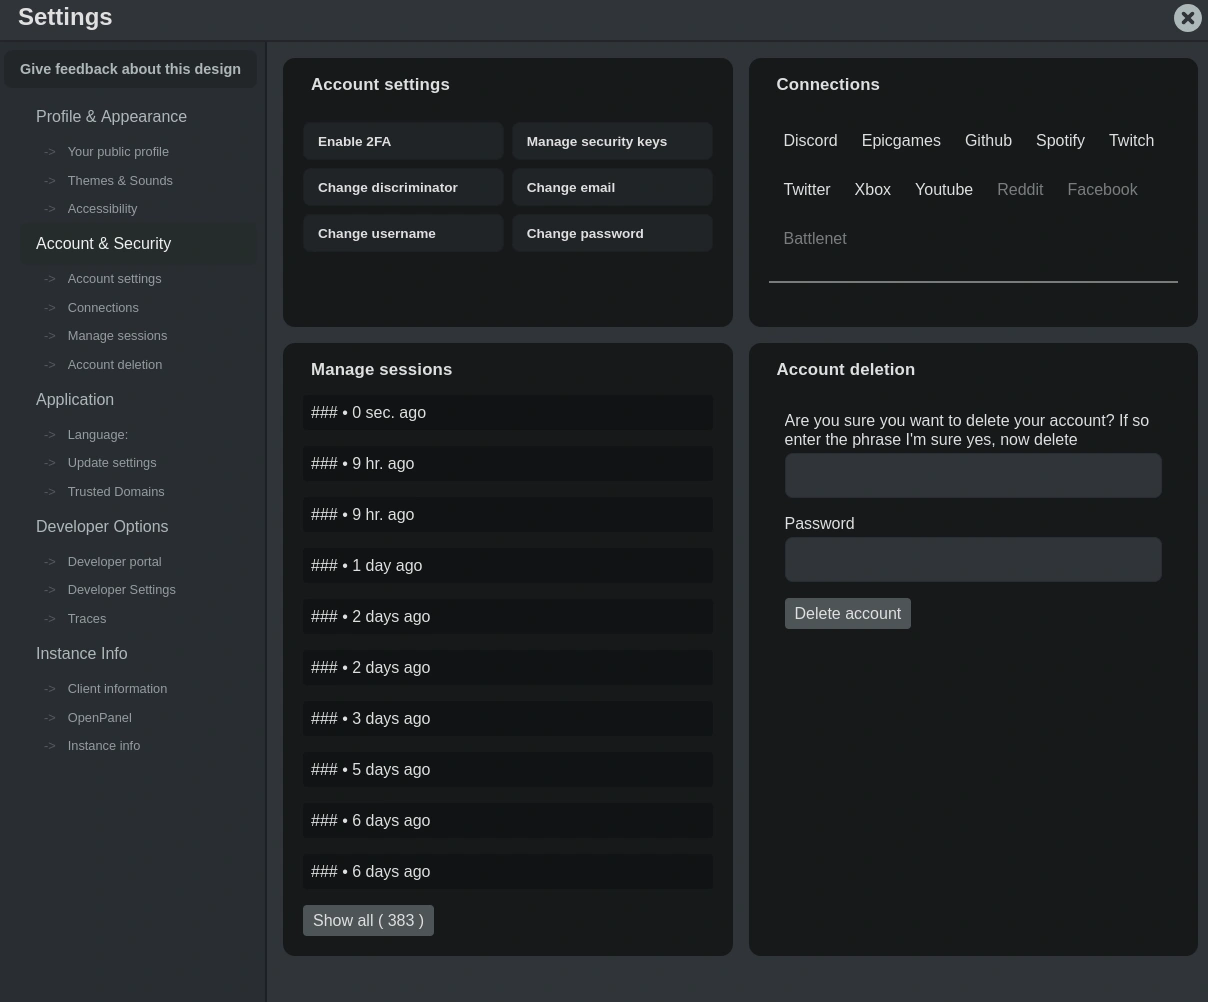
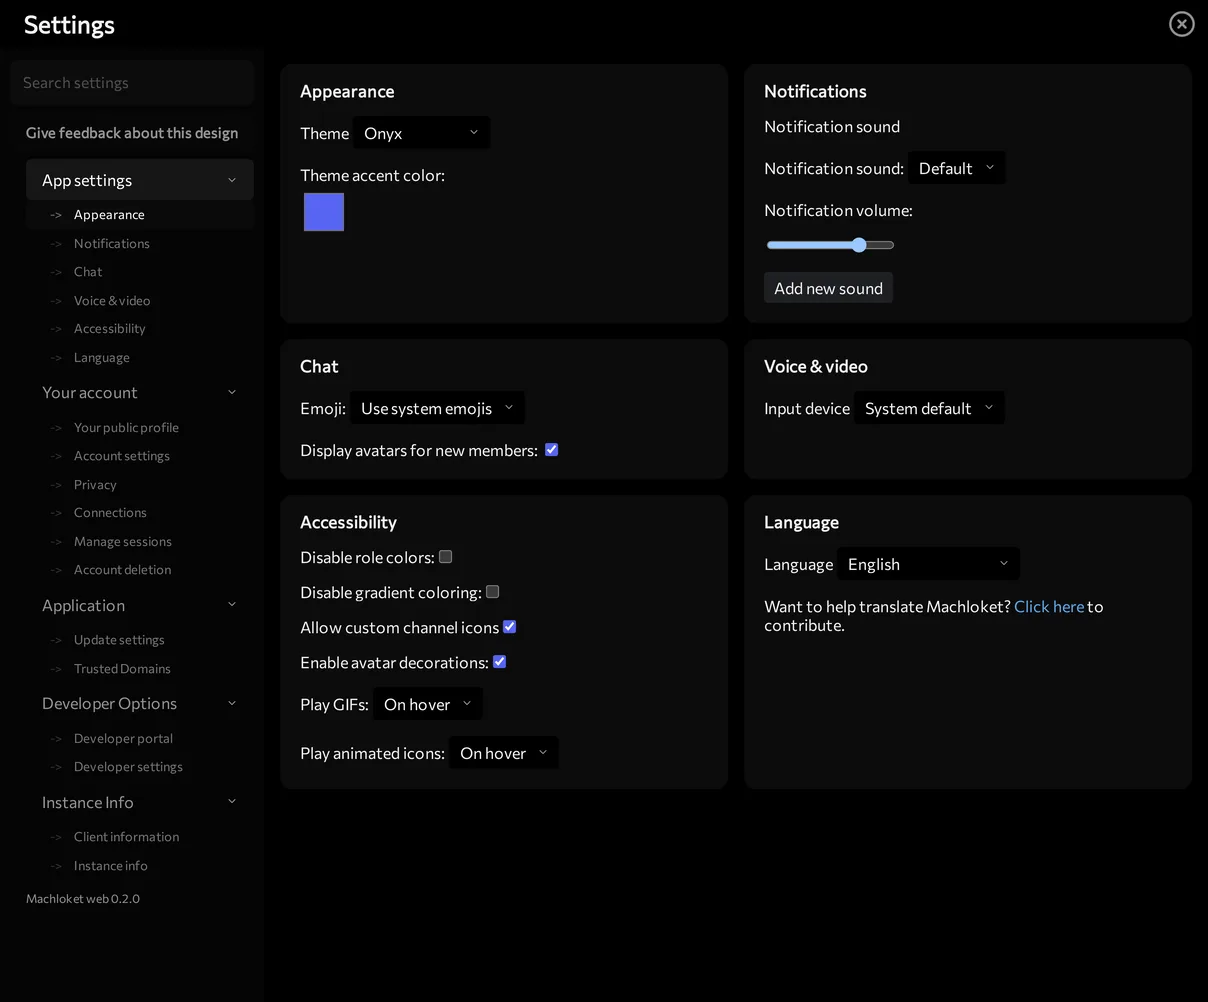
feat(licence): Client information offers this build's source and credits Fermo (TASK-19)
AGPL-3.0 section 13: the app links the repository at the commit it was built
from (MACHLOKET_SOURCE_URL for a deployment's own repository; a bad setting
fails the build). Clears the fork-era custom badges, swaps the landing page's
Fermo settings shot for Machloket's own, and makes the README describe the
real review gates (TASK-129).

diff --git a/src/webpage/utils/sourceOffer.ts b/src/webpage/utils/sourceOffer.ts
@@ -1,0 +1,43 @@
+/** Where this client's source is published. AGPL-3.0 section 13 has the running app offer its
+ * users the source of the version they use: Client information links it (TASK-19). */
+export const DEFAULT_SOURCE_REPO = "https://github.com/lbds137/machloket-client";
+
+/**
+ * The "source for this build" link: the repository at the revision the build was made from.
+ * `repo` is the MACHLOKET_SOURCE_URL build setting, for a deployment that publishes its own
+ * changes; unset means this repository. A build with no known revision ("dev", vite.config.js's
+ * getBuildVersion outside a git checkout) links the repository itself. Read at build time
+ * (vite.config.js), so a bad setting fails the build instead of shipping a broken offer.
+ */
+export function sourceUrl(repo: string | undefined, revision: string): string {
+	const base = (repo?.trim() || DEFAULT_SOURCE_REPO).replace(/\/+$/, "");
+	// A link people also copy out of the text: no whitespace, brackets or parentheses that would
+	// end it early when it is pasted or auto-linked elsewhere.
+	if (/[\s()[\]<>]/.test(base) || !URL.canParse(base)) {
+		throw new Error(`MACHLOKET_SOURCE_URL must be a web address, got: ${base}`);
+	}
+	const {protocol} = new URL(base);
+	if (protocol !== "https:" && protocol !== "http:") {
+		throw new Error(`MACHLOKET_SOURCE_URL must be an http(s) address, got: ${base}`);
+	}
+	const rev = revision.trim();
+	if (!rev || rev === "dev") return base;
+	return `${base}/tree/${encodeURIComponent(rev)}`;
+}
+
+/** The credit line, with the source link as a plain anchor: the app's Markdown gives a link to
+ * an untrusted host no href, and this offer must always open. `line` is the translated text,
+ * given what to put where the link goes. */
+export function creditLine(line: (link: string) => string, url: string): HTMLParagraphElement {
+	const marker = String.fromCharCode(1);
+	const [before, after = ""] = line(marker).split(marker);
+	const a = document.createElement("a");
+	a.href = url;
+	a.textContent = url;
+	a.target = "_blank";
+	a.rel = "noreferrer";
+	const p = document.createElement("p");
+	p.className = "sourceOffer";
+	p.append(before, a, after);
+	return p;
+}

diff --git a/src/webpage/utils/sourceOffer.test.ts b/src/webpage/utils/sourceOffer.test.ts
@@ -1,0 +1,39 @@
+import {describe, expect, it} from "vitest";
+import {DEFAULT_SOURCE_REPO, sourceUrl} from "./sourceOffer";
+
+const SHA = "0123456789abcdef0123456789abcdef01234567";
+
+describe("the source link for this build", () => {
+	it("is this repository at the build's commit when nothing is configured", () => {
+		expect(sourceUrl(undefined, SHA)).toBe(`${DEFAULT_SOURCE_REPO}/tree/${SHA}`);
+		expect(sourceUrl("  ", SHA)).toBe(`${DEFAULT_SOURCE_REPO}/tree/${SHA}`);
+	});
+
+	it("uses a deployment's own repository, trailing slash or not", () => {
+		expect(sourceUrl("https://git.example.test/me/fork/", "v1.2.0")).toBe(
+			"https://git.example.test/me/fork/tree/v1.2.0",
+		);
+	});
+
+	it("links the repository itself when the build has no revision", () => {
+		expect(sourceUrl(undefined, "dev")).toBe(DEFAULT_SOURCE_REPO);
+		expect(sourceUrl("https://git.example.test/me/fork", "")).toBe(
+			"https://git.example.test/me/fork",
+		);
+	});
+
+	it("keeps a revision with a slash inside one path segment", () => {
+		expect(sourceUrl(undefined, "release/1")).toBe(`${DEFAULT_SOURCE_REPO}/tree/release%2F1`);
+	});
+
+	// The link is rendered as a Markdown link: a setting that isn't a web URL, or that would
+	// break out of the link syntax, fails the build instead of shipping a broken offer.
+	it.each([
+		["not a URL", "github.com/me/fork"],
+		["not a web link", "javascript:alert(1)"],
+		["a bracket or parenthesis", "https://git.example.test/me/(fork)"],
+		["whitespace", "https://git.example.test/me/my fork"],
+	])("refuses a setting that is %s", (_why, repo) => {
+		expect(() => sourceUrl(repo, SHA)).toThrow(/MACHLOKET_SOURCE_URL/);
+	});
+});

diff --git a/e2e/source-offer.spec.ts b/e2e/source-offer.spec.ts
@@ -1,0 +1,32 @@
+import {expect} from "@playwright/test";
+import {loginAndOpenChannel, test} from "./fixtures";
+import {DEFAULT_SOURCE_REPO} from "../src/webpage/utils/sourceOffer";
+
+test.use({viewport: {width: 1280, height: 800}});
+
+// AGPL-3.0 section 13: the running app offers its users the source of the version they use.
+test("Client information credits Fermo and links the source of this build", async ({
+	page,
+	mockInstance,
+}) => {
+	void mockInstance;
+	await loginAndOpenChannel(page);
+	await page.locator("#settings").click();
+	await page
+		.locator('.settingbuttons .cardLink[data-section="Instance Info"]', {
+			hasText: "Client information",
+		})
+		.click();
+
+	const credit = page.getByText("Machloket is free software (AGPL-3.0).");
+	await expect(credit).toBeVisible();
+	await expect(credit).toContainText("Based on Fermo (AGPL-3.0) by its authors.");
+	// The e2e build runs in a git checkout, so the revision is the commit it was built from.
+	const link = credit.getByRole("link");
+	await expect(link).toHaveAttribute(
+		"href",
+		new RegExp(`^${DEFAULT_SOURCE_REPO.replaceAll(".", "\\.")}/tree/[0-9a-f]{40}$`),
+	);
+	// Underlined, so it reads as a link without its colour (the app's links are colour-only).
+	await expect(link).toHaveCSS("text-decoration-line", "underline");
+});

diff --git a/e2e/ux-shots.spec.ts b/e2e/ux-shots.spec.ts
@@ -73,6 +73,30 @@ test.describe("desktop", () => {
 	});
 });
 
+// The landing page's "Simple Yet Professional" image (public/features/fermo-settings-design.webp,
+// index.html): settings on a desktop window the old image's size, converted to WebP by hand.
+test.describe("landing", () => {
+	test.use({
+		viewport: {width: 1208, height: 1002},
+		userAgent:
+			"Mozilla/5.0 (X11; Linux x86_64) AppleWebKit/537.36 (KHTML, like Gecko) Chrome/120.0.0.0 Safari/537.36",
+		isMobile: false,
+		hasTouch: false,
+	});
+
+	test("capture: settings (landing feature image)", async ({page, mockInstance}) => {
+		await loginAndOpenChannel(page);
+		void mockInstance;
+
+		await page.locator("#settings").click();
+		await page
+			.locator('.settingbuttons .cardLink[data-section="App settings"]', {hasText: "Appearance"})
+			.click();
+		await expect(page.locator("#card-appearance")).toBeVisible();
+		await shot(page, "landing-settings.png");
+	});
+});
+
 test("capture: GIF picker (phone)", async ({page, mockInstance}) => {
 	await loginAndOpenChannel(page);
 	void mockInstance;

diff --git a/vite.config.js b/vite.config.js
@@ -12,6 +12,7 @@ import {
 } from "fs";
 import {execSync} from "child_process";
 import {mergeInstanceLists} from "./src/webpage/utils/instanceOverlay.ts";
+import {sourceUrl} from "./src/webpage/utils/sourceOffer.ts";
 import {printTestTree} from "./e2e/testTree.ts";
 
 // Dev and build load this config too, and neither is a test run.
@@ -384,6 +385,9 @@ export default defineConfig({
 	// stable name, this one differing line is what makes the browser ever reinstall it.
 	define: {
 		__BUILD_REVISION__: JSON.stringify(getBuildVersion()),
+		// Client information's "source for this build" (AGPL-3.0 section 13; utils/sourceOffer.ts).
+		// MACHLOKET_SOURCE_URL names the repository a modified build's source is published in.
+		__SOURCE_URL__: JSON.stringify(sourceUrl(process.env.MACHLOKET_SOURCE_URL, getBuildVersion())),
 	},
 
 	build: {

diff --git a/src/webpage/localuser.ts b/src/webpage/localuser.ts
@@ -90,6 +90,7 @@ import {PromiseLock} from "./utils/promiseLock.js";
 import {CDNParams} from "./utils/cdnParams.js";
 import {SEARCH_RESULT_CLASS} from "./utils/searchView.js";
 import {externalUrl, pageNav} from "./utils/netUtils.js";
+import {creditLine} from "./utils/sourceOffer.js";
 import {SnowFlake} from "./snowflake.js";
 import {InteractionModal} from "./interactions/modal.js";
 import {commandFailureText, showCommandStatus} from "./interactions/commandStatus.js";
@@ -5125,6 +5126,7 @@ class Localuser {
 			jankInfo.addHTMLArea(img);
 			img.width = 128;
 			img.height = 128;
+			jankInfo.addHTMLArea(creditLine(I18n.sourceOffer, __SOURCE_URL__));
 			let ver = "dev";
 			try {
 				const response = await fetch("/getupdates", {cache: "no-store"});

diff --git a/src/env.d.ts b/src/env.d.ts
@@ -10,3 +10,7 @@ interface ImportMeta {
 /** The build revision, injected by vite.config.js (`define`); service.ts logs it so a new
  * build's service.js differs byte-wise and the browser reinstalls the worker. */
 declare const __BUILD_REVISION__: string;
+
+/** Where this build's source is published, at the build's revision (vite.config.js, from
+ * utils/sourceOffer.ts); Client information links it. */
+declare const __SOURCE_URL__: string;

diff --git a/src/webpage/index.html b/src/webpage/index.html
@@ -90,7 +90,11 @@
 					</p>
 				</div>
 				<div class="feature-image">
-					<img src="features/fermo-settings-design.webp" alt="Feature 2" id="featureImg2" />
+					<img
+						src="features/fermo-settings-design.webp"
+						alt="Machloket settings: appearance, notifications, chat, voice and accessibility options side by side"
+						id="featureImg2"
+					/>
 				</div>
 			</div>
 

diff --git a/src/webpage/public/style.css b/src/webpage/public/style.css
@@ -862,6 +862,11 @@ a:hover,
 	text-decoration: underline;
 }
 
+/* Client information's source link: underlined, so it reads as a link without its colour. */
+.sourceOffer a {
+	text-decoration: underline;
+}
+
 .clickable {
 	color: unset;
 }

diff --git a/README.md b/README.md
@@ -22,8 +22,8 @@ Please report Machloket issues on this repository only. Machloket is a fork: the
 
 ## AI-assisted development
 
-Development of Machloket is AI-assisted (Claude Code), openly labeled as such. Every change is reviewed and tested by the maintainer before it lands.
+Development of Machloket is AI-assisted (Claude Code), openly labeled as such. Every change lands by pull request after an independent AI review, the full automated test suite and CI; the maintainer decides product and design questions.
 
 ## Licence
 
-AGPL-3.0 — see [LICENSE](./LICENSE). As a web application, the source you are reading is the offer of source required by section 13.
+AGPL-3.0 — see [LICENSE](./LICENSE). Section 13 asks a program used over a network to offer its users the source of the version they run. Machloket makes that offer in the app, under Settings → Instance Info → Client information, linking the commit the build was made from. If you deploy a modified build, publish your source and set `MACHLOKET_SOURCE_URL` to its repository when you build (see [How to statically host Machloket](./howToStaticallyHost.md)).

diff --git a/howToStaticallyHost.md b/howToStaticallyHost.md
@@ -12,6 +12,8 @@ Here's the other thing you need to do:
 
 Firstly you'll need to build Machloket like normal and host out the `./dist/webpage` directory.
 
+Build from a git checkout: Client information links "Source for this build" to the commit the build was made from (`VER=<revision>` overrides the commit; with neither, it links the repository itself). A build with your own changes in it must offer its users that changed source (AGPL-3.0, section 13): push it, then build with `MACHLOKET_SOURCE_URL=https://your.host/you/your-fork npm run build`. The link is `<repository>/tree/<revision>`.
+
 You need to make some rewrites, not redirects from these addresses:
 
 - `/channels/*` -> `/app.html`
